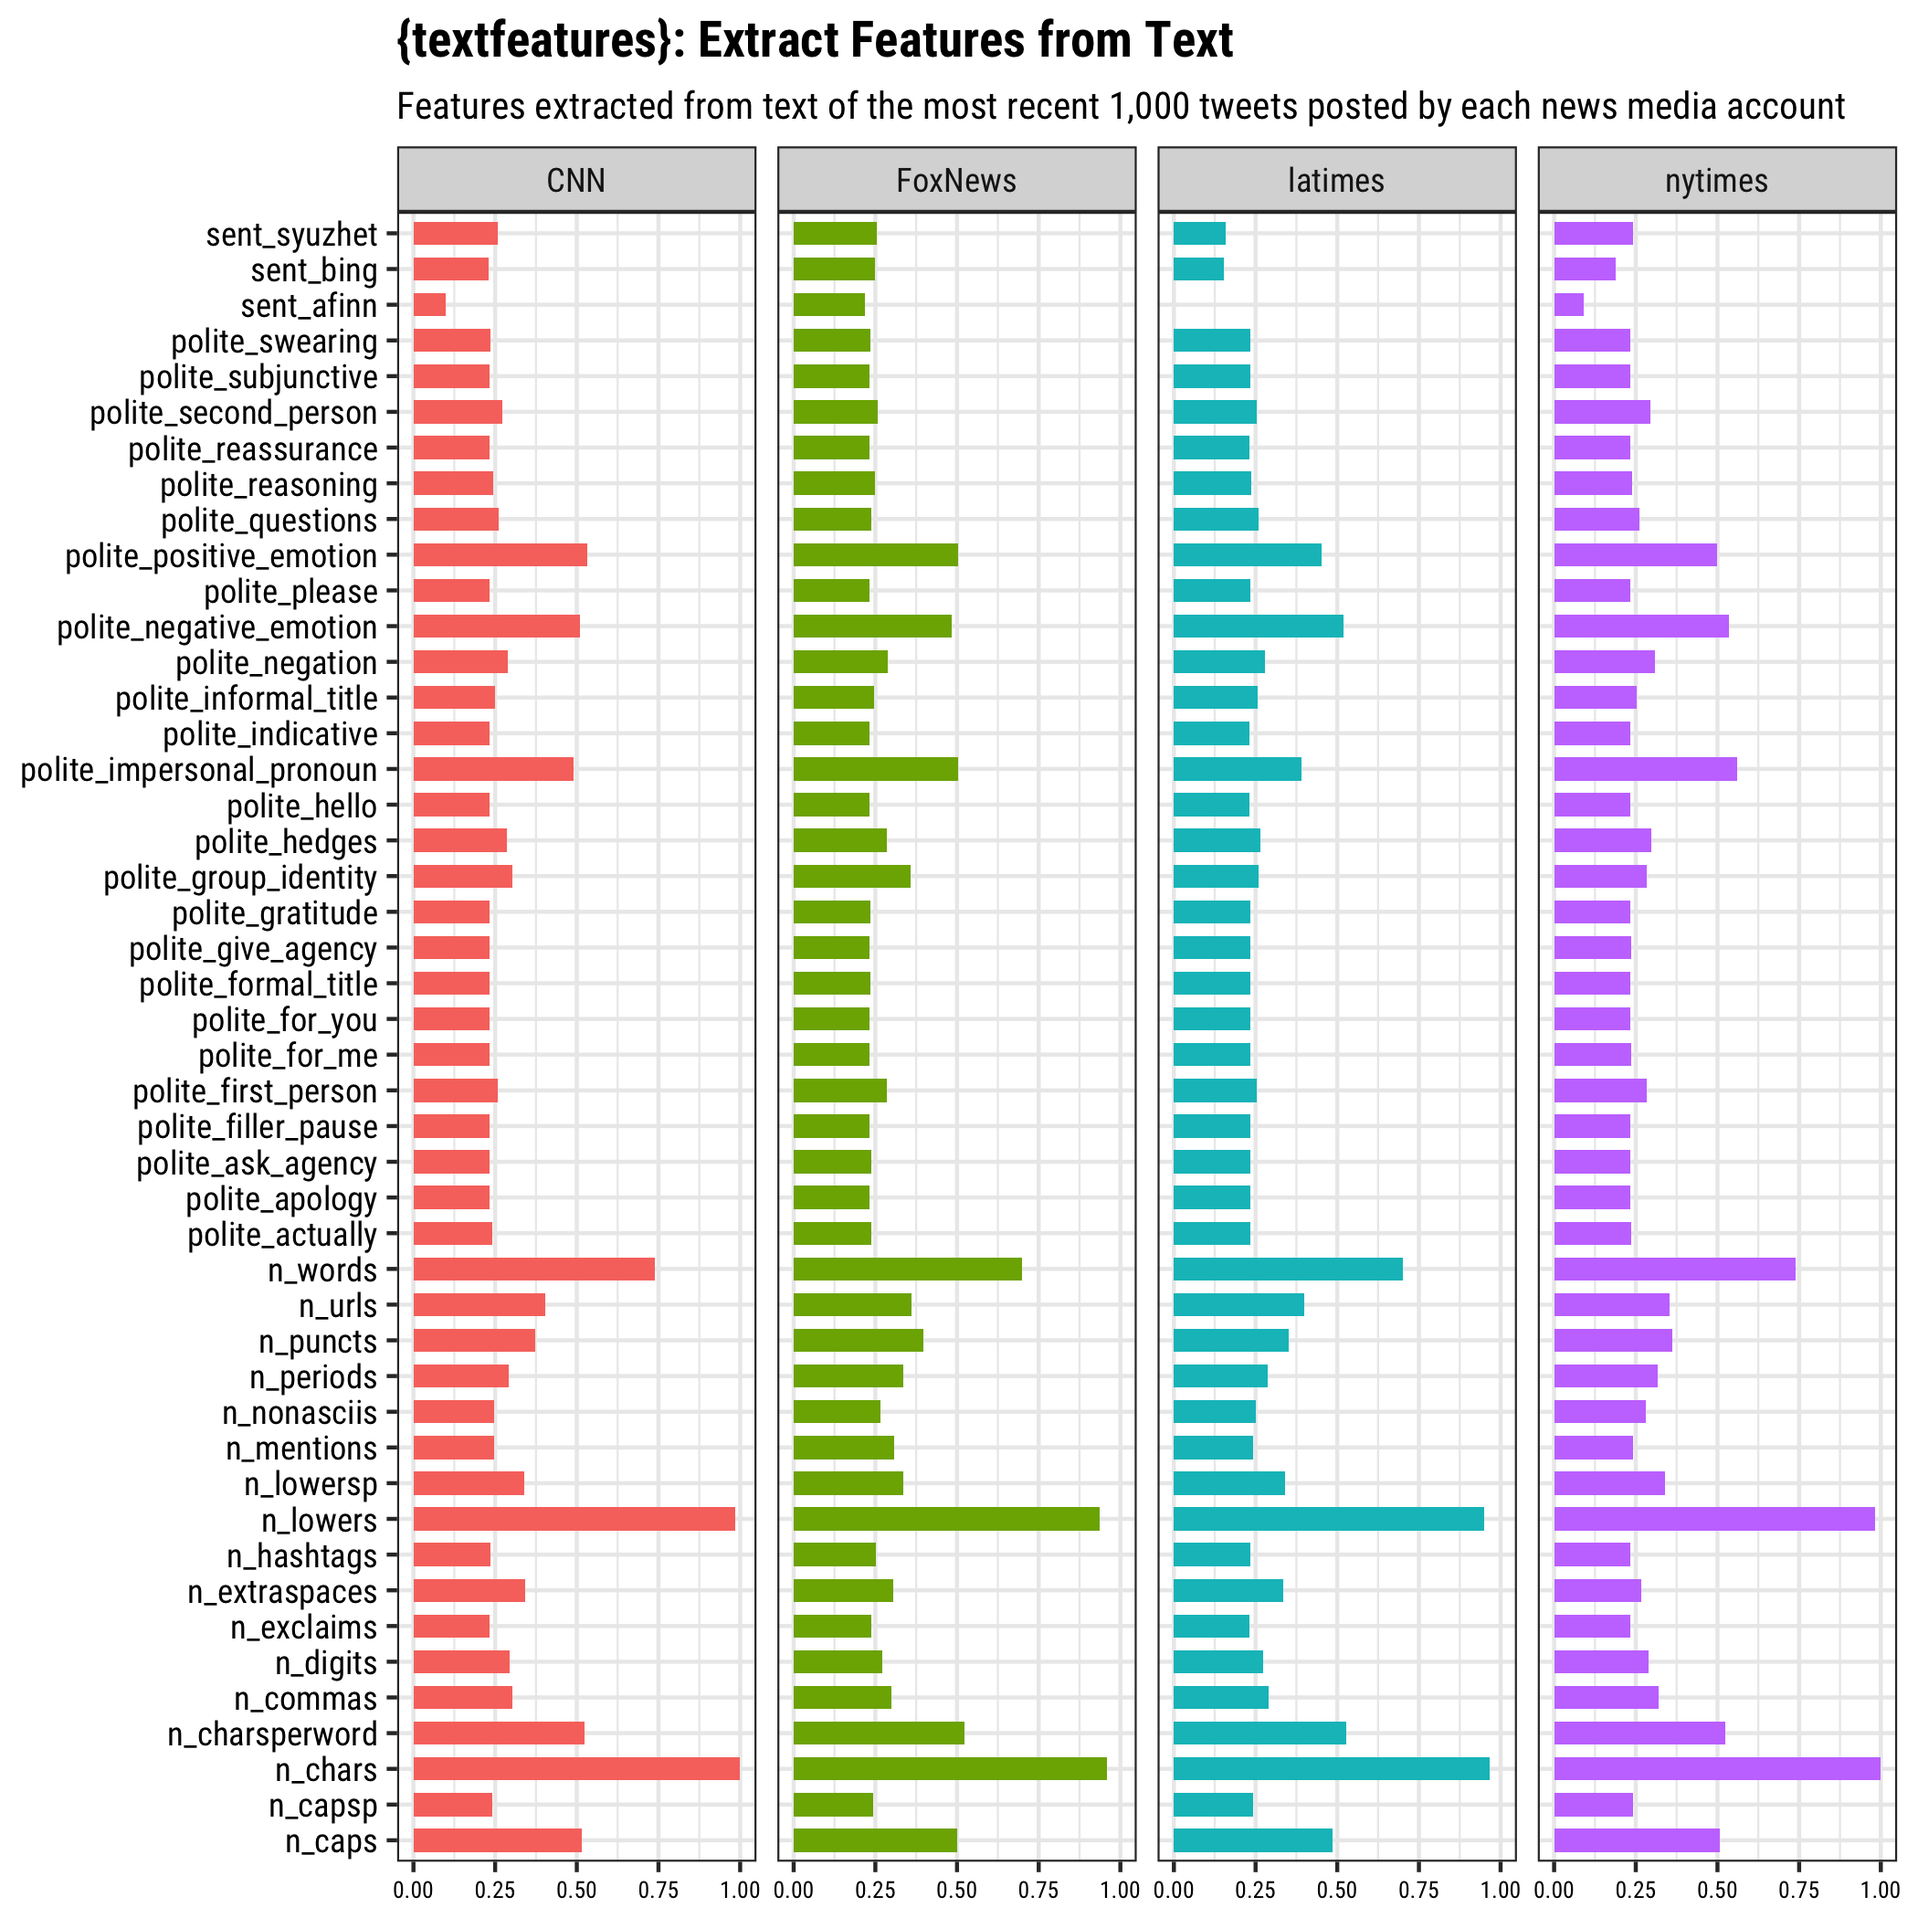
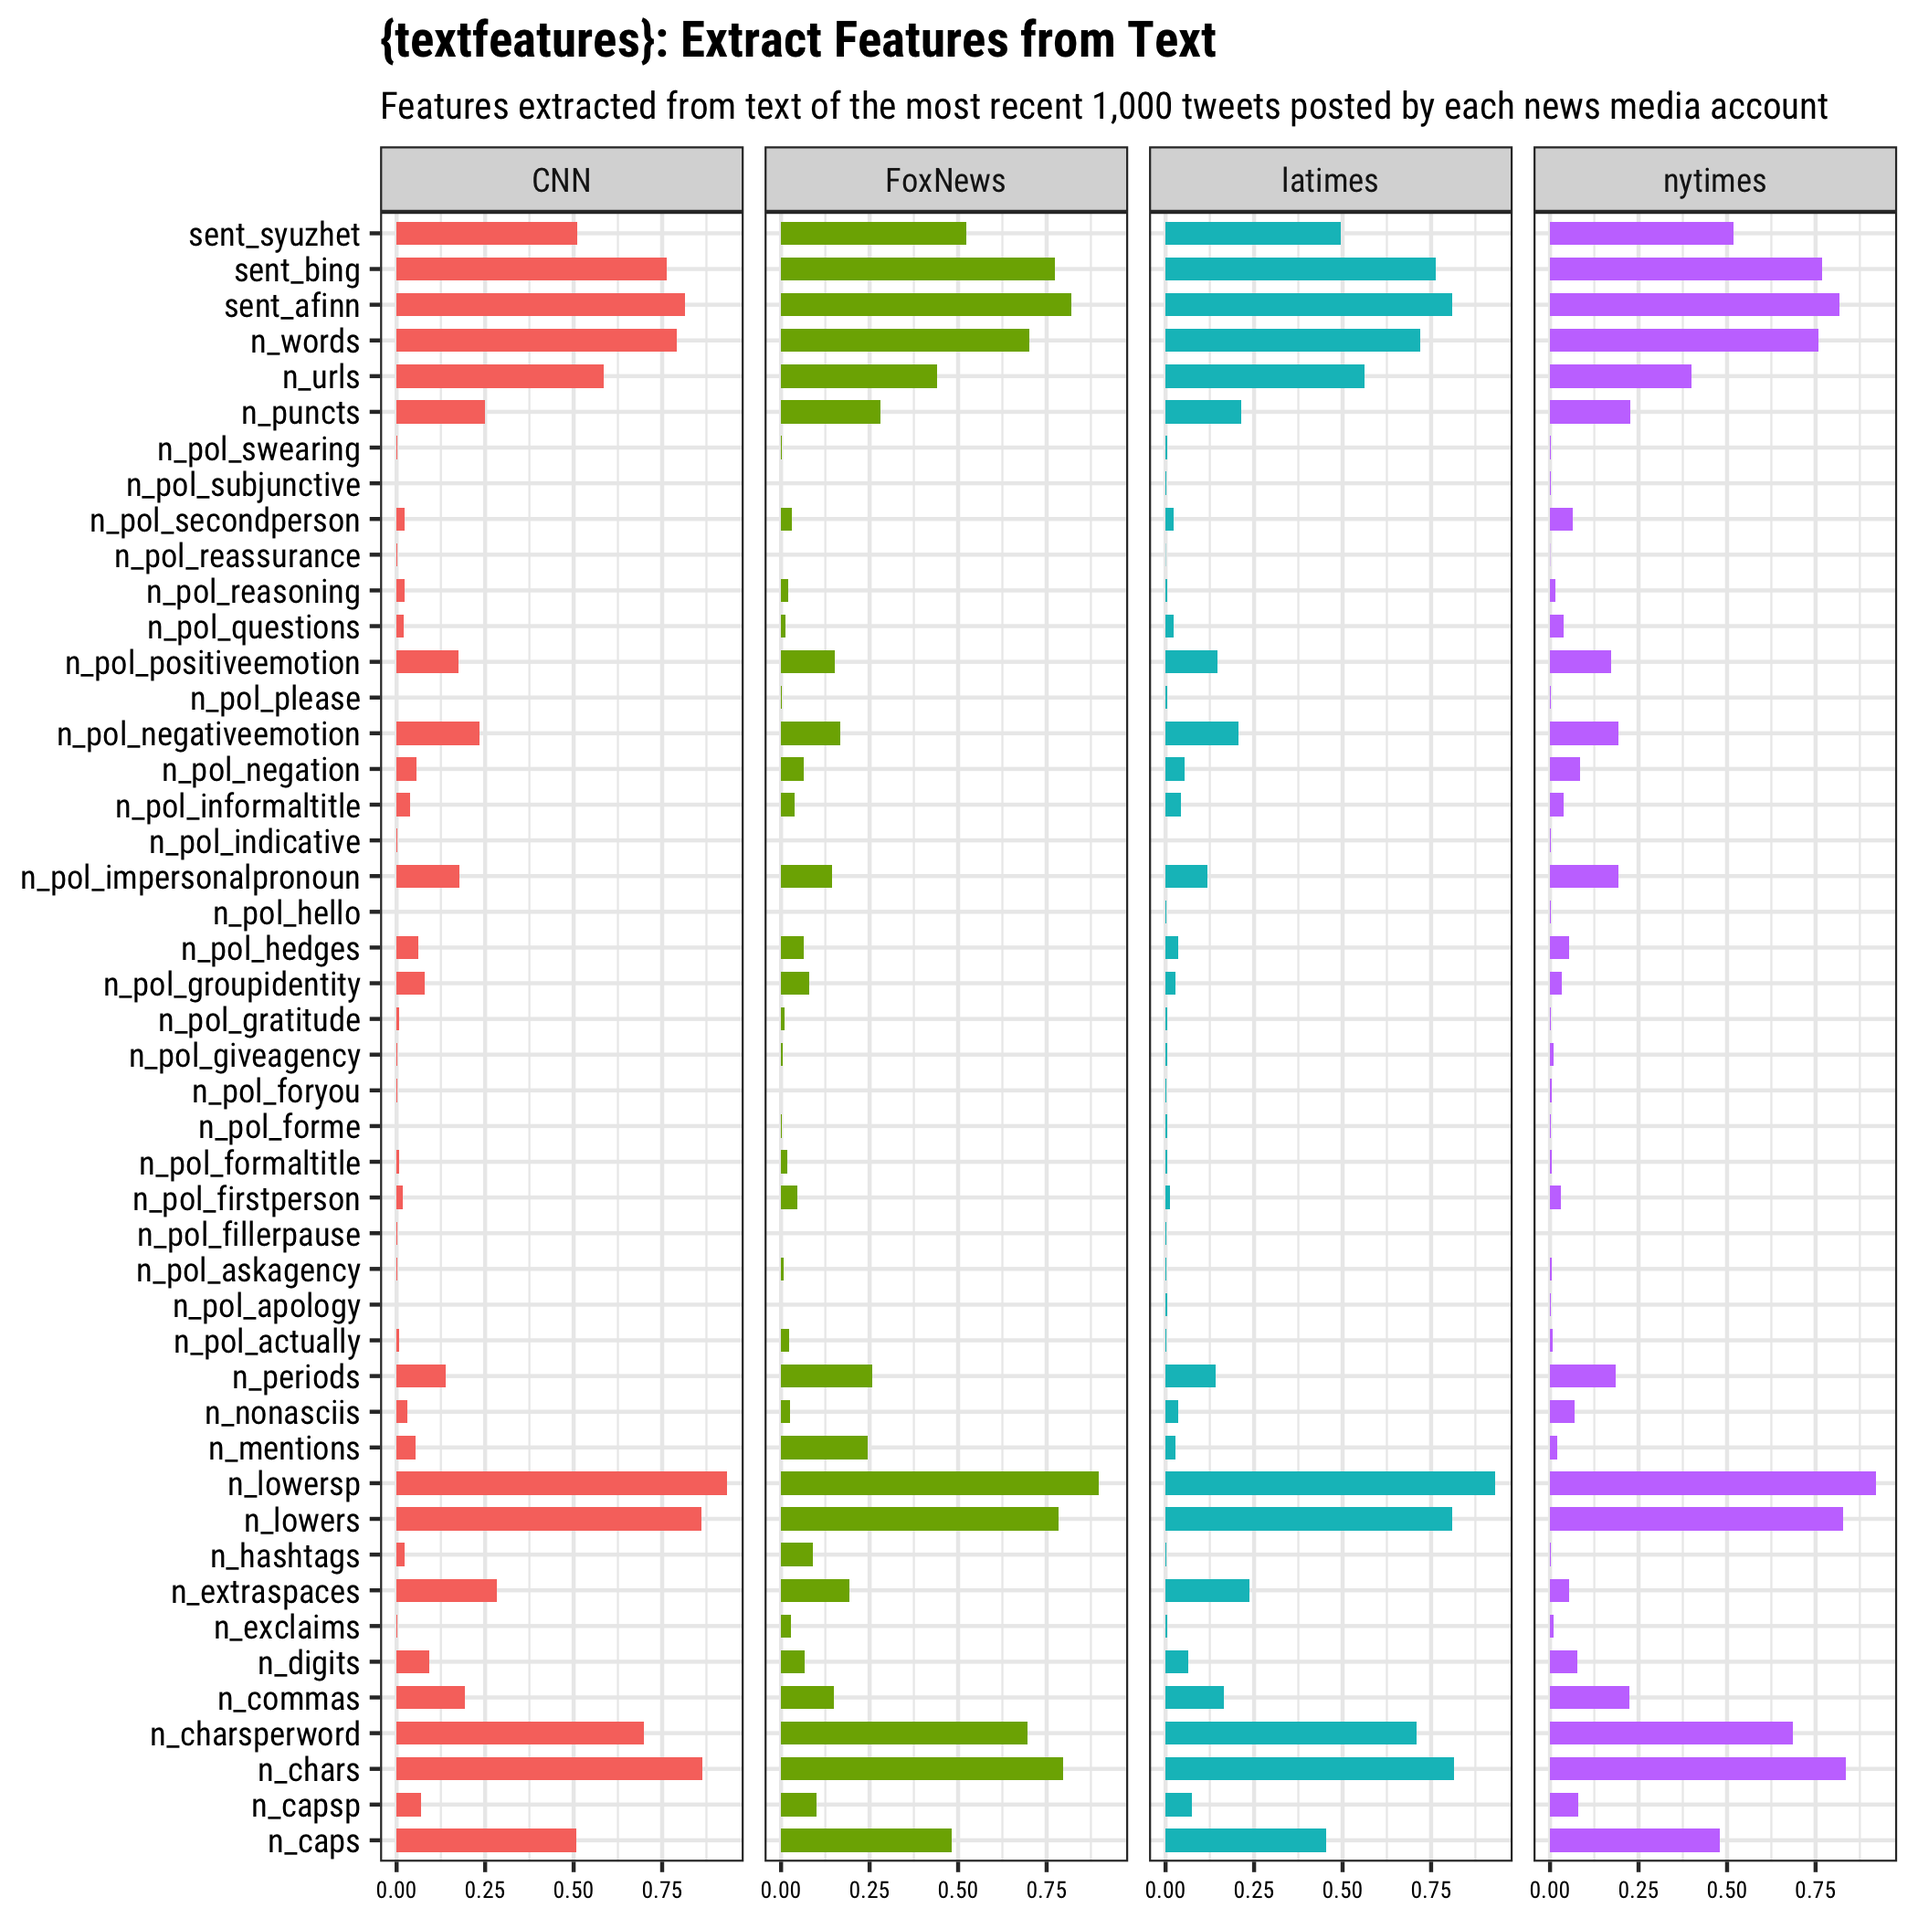
fix scale_zero and update readme plot

Changed region(s): [[0.031, 0.0, 0.9905, 0.9905]]

diff --git a/README.md b/README.md
@@ -76,16 +76,16 @@ textfeatures(rt)
 #> # A tibble: 100 x 47
 #>    user_id  n_urls n_hashtags n_mentions sent_afinn sent_bing sent_syuzhet
 #>    <chr>     <int>      <int>      <int>      <int>     <int>        <dbl>
-#>  1 4536934…      2          3          1          8         2         1.05
-#>  2 3101015…      0          1          0          2        -2         0.7 
-#>  3 1030049…      1          1          1          0         0         0.8 
-#>  4 1114574…      1          4          2          0         0         0   
-#>  5 9130697…      2          1          0         -1        -2        -0.75
-#>  6 1235849…      0          1          3          9         4         3.25
-#>  7 3345539…      1          3          0          0         1         0.8 
-#>  8 3345539…      2          5          0          2         2         1.1 
-#>  9 3345539…      1          2          1          0         1         0.8 
-#> 10 3345539…      1          2          1          7         1         2   
+#>  1 8697941…      1          2          1          0         1          0.8
+#>  2 1011817…      1          1          0          0         1          0.8
+#>  3 1011817…      1          1          0          0         0          0.8
+#>  4 1011817…      1          1          0          0         1          0.8
+#>  5 1011817…      1          1          0          0         0          0.8
+#>  6 1011817…      1          1          0          0         1          0.8
+#>  7 1011817…      1          1          0          0         0          0.8
+#>  8 1011817…      1          1          0          0         1          0.8
+#>  9 1011817…      1          1          0          0         0          0.8
+#> 10 1011817…      1          1          0          0         1          0.8
 #> # ... with 90 more rows, and 40 more variables: n_chars <int>,
 #> #   n_commas <int>, n_digits <int>, n_exclaims <int>, n_extraspaces <int>,
 #> #   n_lowers <int>, n_lowersp <dbl>, n_periods <int>, n_words <int>,
@@ -115,17 +115,12 @@ f <- textfeatures(dplyr::group_by(gdf, screen_name))
 ## load ggplot
 suppressPackageStartupMessages(library(tidyverse))
 
-## standardize scales
-scale_standard <- function(x) {
-  xmin <- min(x, na.rm = TRUE)
-  (x - xmin) / (max(x, na.rm = TRUE) - xmin)
-}
-
 ## convert to long (tidy) form and plot
 p <- f %>%
+  scale_count() %>%
+  scale_standard() %>%
   summarise_if(is.numeric, mean) %>%
   gather(var, val, -screen_name) %>%
-  mutate_if(is.numeric, scale_standard) %>%
   ggplot(aes(x = var, y = val, fill = screen_name)) + 
   geom_col(width = .65) + 
   theme_bw(base_family = "Roboto Condensed") + 
@@ -155,16 +150,16 @@ textfeatures2(rt)
 #> # A tibble: 100 x 15
 #>    user_id     n_chars n_commas n_digits n_exclaims n_extraspaces n_lowers
 #>    <chr>         <int>    <int>    <int>      <int>         <int>    <int>
-#>  1 453693457       118        0        0          2             4      114
-#>  2 3101015701      145        1        0          0             0      139
-#>  3 103004948        25        0        0          0             3       22
-#>  4 111457430        29        0        0          0             7       25
-#>  5 9130697596…     140        1        0          1             2      127
-#>  6 123584958       175        1        0          3             3      162
-#>  7 334553913        62        0        0          0             2       59
-#>  8 334553913       128        0        1          0             3      115
-#>  9 334553913        24        0        3          0             2       18
-#> 10 334553913        69        1        0          1             2       62
+#>  1 8697941962…      24        0        3          0             2       18
+#>  2 1011817655…      41        0        0          0             1       40
+#>  3 1011817655…      45        0        0          0             1       38
+#>  4 1011817655…      25        0        3          0             1       18
+#>  5 1011817655…      44        0        0          0             1       38
+#>  6 1011817655…      24        0        3          0             1       18
+#>  7 1011817655…      45        0        0          0             1       38
+#>  8 1011817655…      25        0        3          0             1       18
+#>  9 1011817655…      93        1        0          0             1       79
+#> 10 1011817655…      59        1        3          0             1       46
 #> # ... with 90 more rows, and 8 more variables: n_lowersp <dbl>,
 #> #   n_periods <int>, n_words <int>, n_caps <int>, n_nonasciis <int>,
 #> #   n_puncts <int>, n_capsp <dbl>, n_charsperword <dbl>
